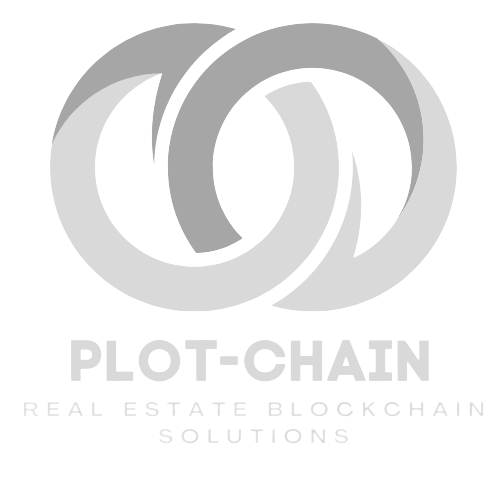
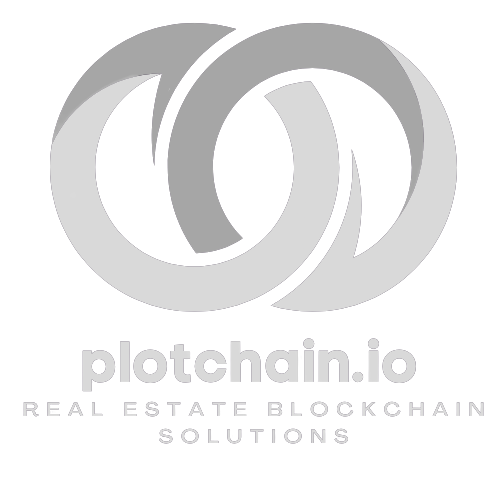
added new default settings and new images

diff --git a/landLedger.py b/landLedger.py
@@ -53,8 +53,10 @@ class Blockchain:
             if hash_val[:4] == '0000':
                 print(f'the hash is {hash_val}')
                 col1, col2 = st.columns(2)
-                col1.metric("Hash of the added block is",str(hash_val[:12] + '...'))
-                col2.metric("Nonce of the added block is", str(new_proof),str(int(new_proof) - int(self.chain[-1]['proof'])))
+                col1.metric("Hash of the added block is",
+                            str(hash_val[:12] + '...'))
+                col2.metric("Nonce of the added block is", str(new_proof), str(
+                    int(new_proof) - int(self.chain[-1]['proof'])))
                 check_proof = True
             else:
                 new_proof += 1
@@ -107,6 +109,18 @@ def checklogin():
         return False
 
 
+st.set_page_config(
+    page_title="plotchain.io",
+    page_icon="icon.png",
+    layout="wide",
+    initial_sidebar_state="expanded",
+    menu_items={
+        'Get Help': None,
+        'Report a bug': None,
+        'About': None
+    }
+)
+st.image('Banner.png')
 st.sidebar.image('Block-Estate2.png')
 # st.sidebar.markdown("#### Contents:")
 option = st.sidebar.selectbox(
@@ -120,7 +134,6 @@ option = st.sidebar.selectbox(
 )
 
 if option == 'Home':
-    st.image('Banner.png')
     st.markdown("<h1 style = 'text-align: center'>Welcome</h1>",
                 unsafe_allow_html=True)
     # st.markdown('### WELCOME')
@@ -131,7 +144,6 @@ if option == 'Home':
         as one of the key indications that shows the development of a country.\
         We at **PLOT-CHAIN** provide banks, businesses, and governments **BLOCKCHAIN SOLUTIONS** to _track and investigate and manage Real-Estate_.')
 if option == 'View Blockchain':
-    st.image('Banner.png')
     # st.title('View the Blockchain')
     st.markdown("<h1 style = 'text-align: center'>View the Blockchain</h1>",
                 unsafe_allow_html=True)
@@ -147,7 +159,6 @@ if option == 'View Blockchain':
     # st.dataframe(data=df)
 
 if option == 'Admin Access':
-    st.image('admin.png')
     # st.title('ADMINSTRATION ACCESS')
     # st.markdown("<h1 style = 'text-align: center'>ADMINSTRATION ACCESS</h1>",
     # unsafe_allow_html=True)
@@ -186,7 +197,6 @@ if option == 'Admin Access':
 
 
 if option == 'Add Block':
-    st.image('Banner.png')
     st.title('ADD A NEW BLOCK')
     if checklogin():
         blockchain = Blockchain()
@@ -218,7 +228,6 @@ if option == 'Add Block':
         st.error('⚠ Log In First Please')
 
 if option == 'Health Check':
-    st.image('Banner.png')
     st.title('Check Blockchain Health Status')
     blockchain = Blockchain()
     is_valid = blockchain.is_chain_valid(blockchain.chain)
